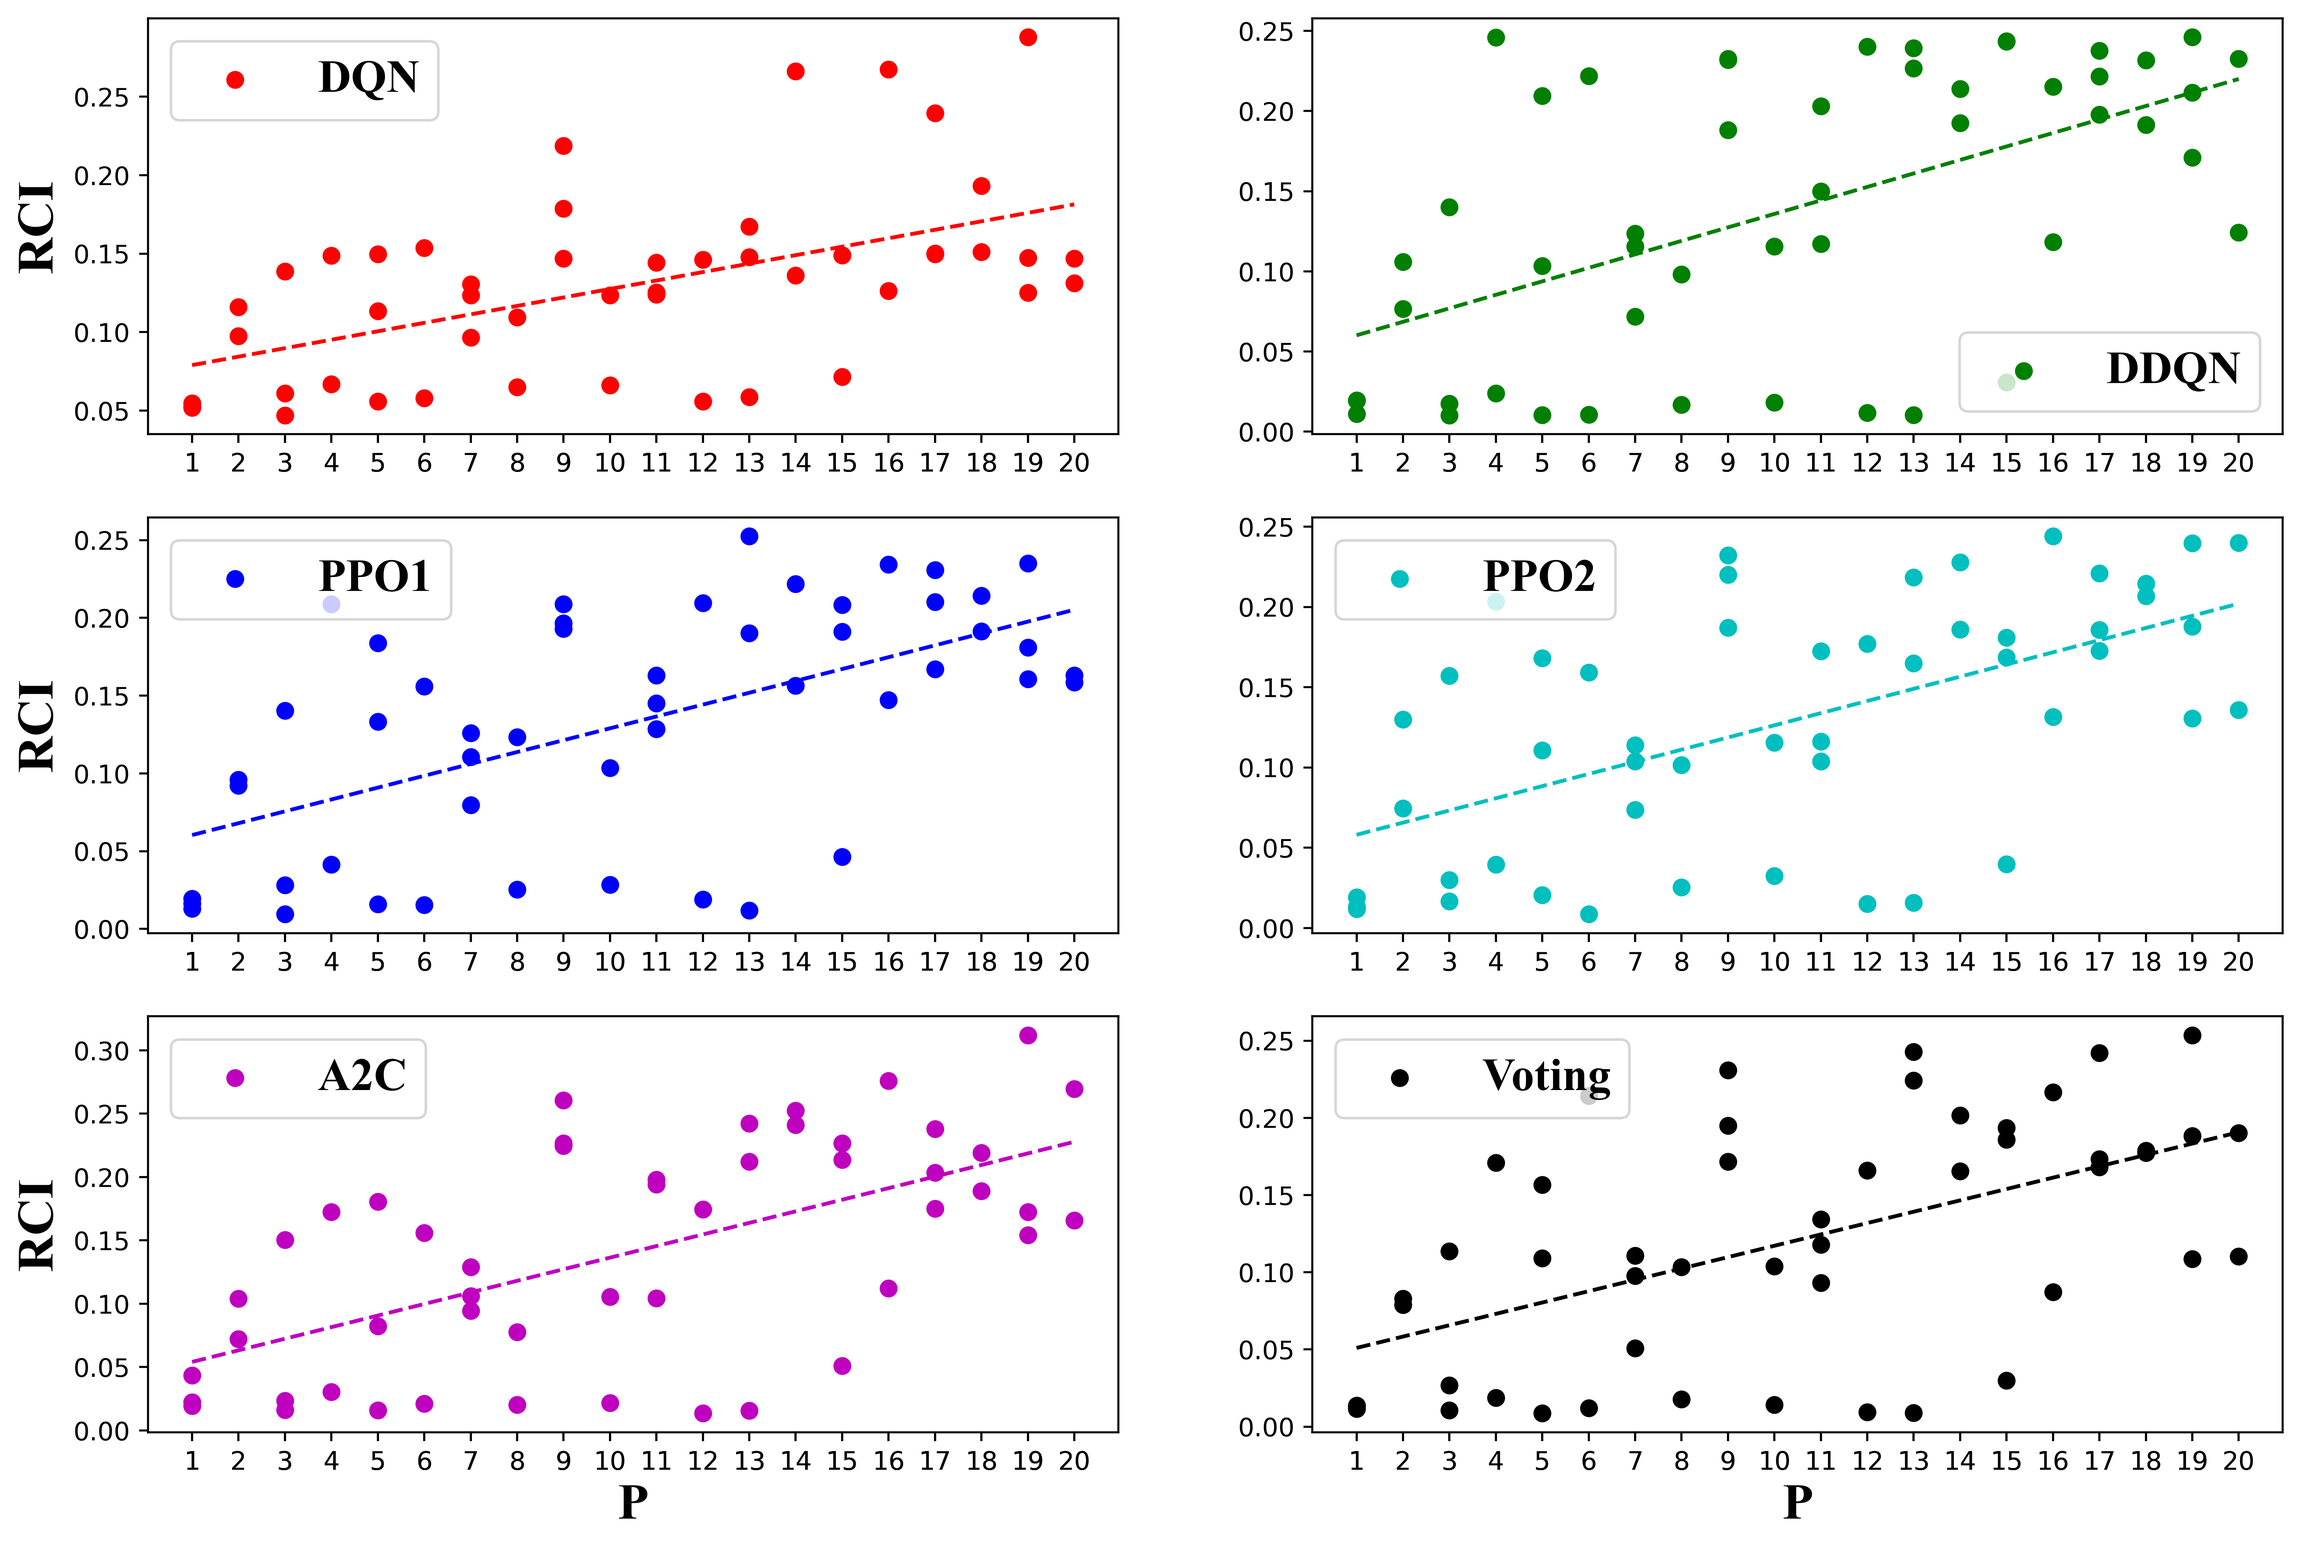
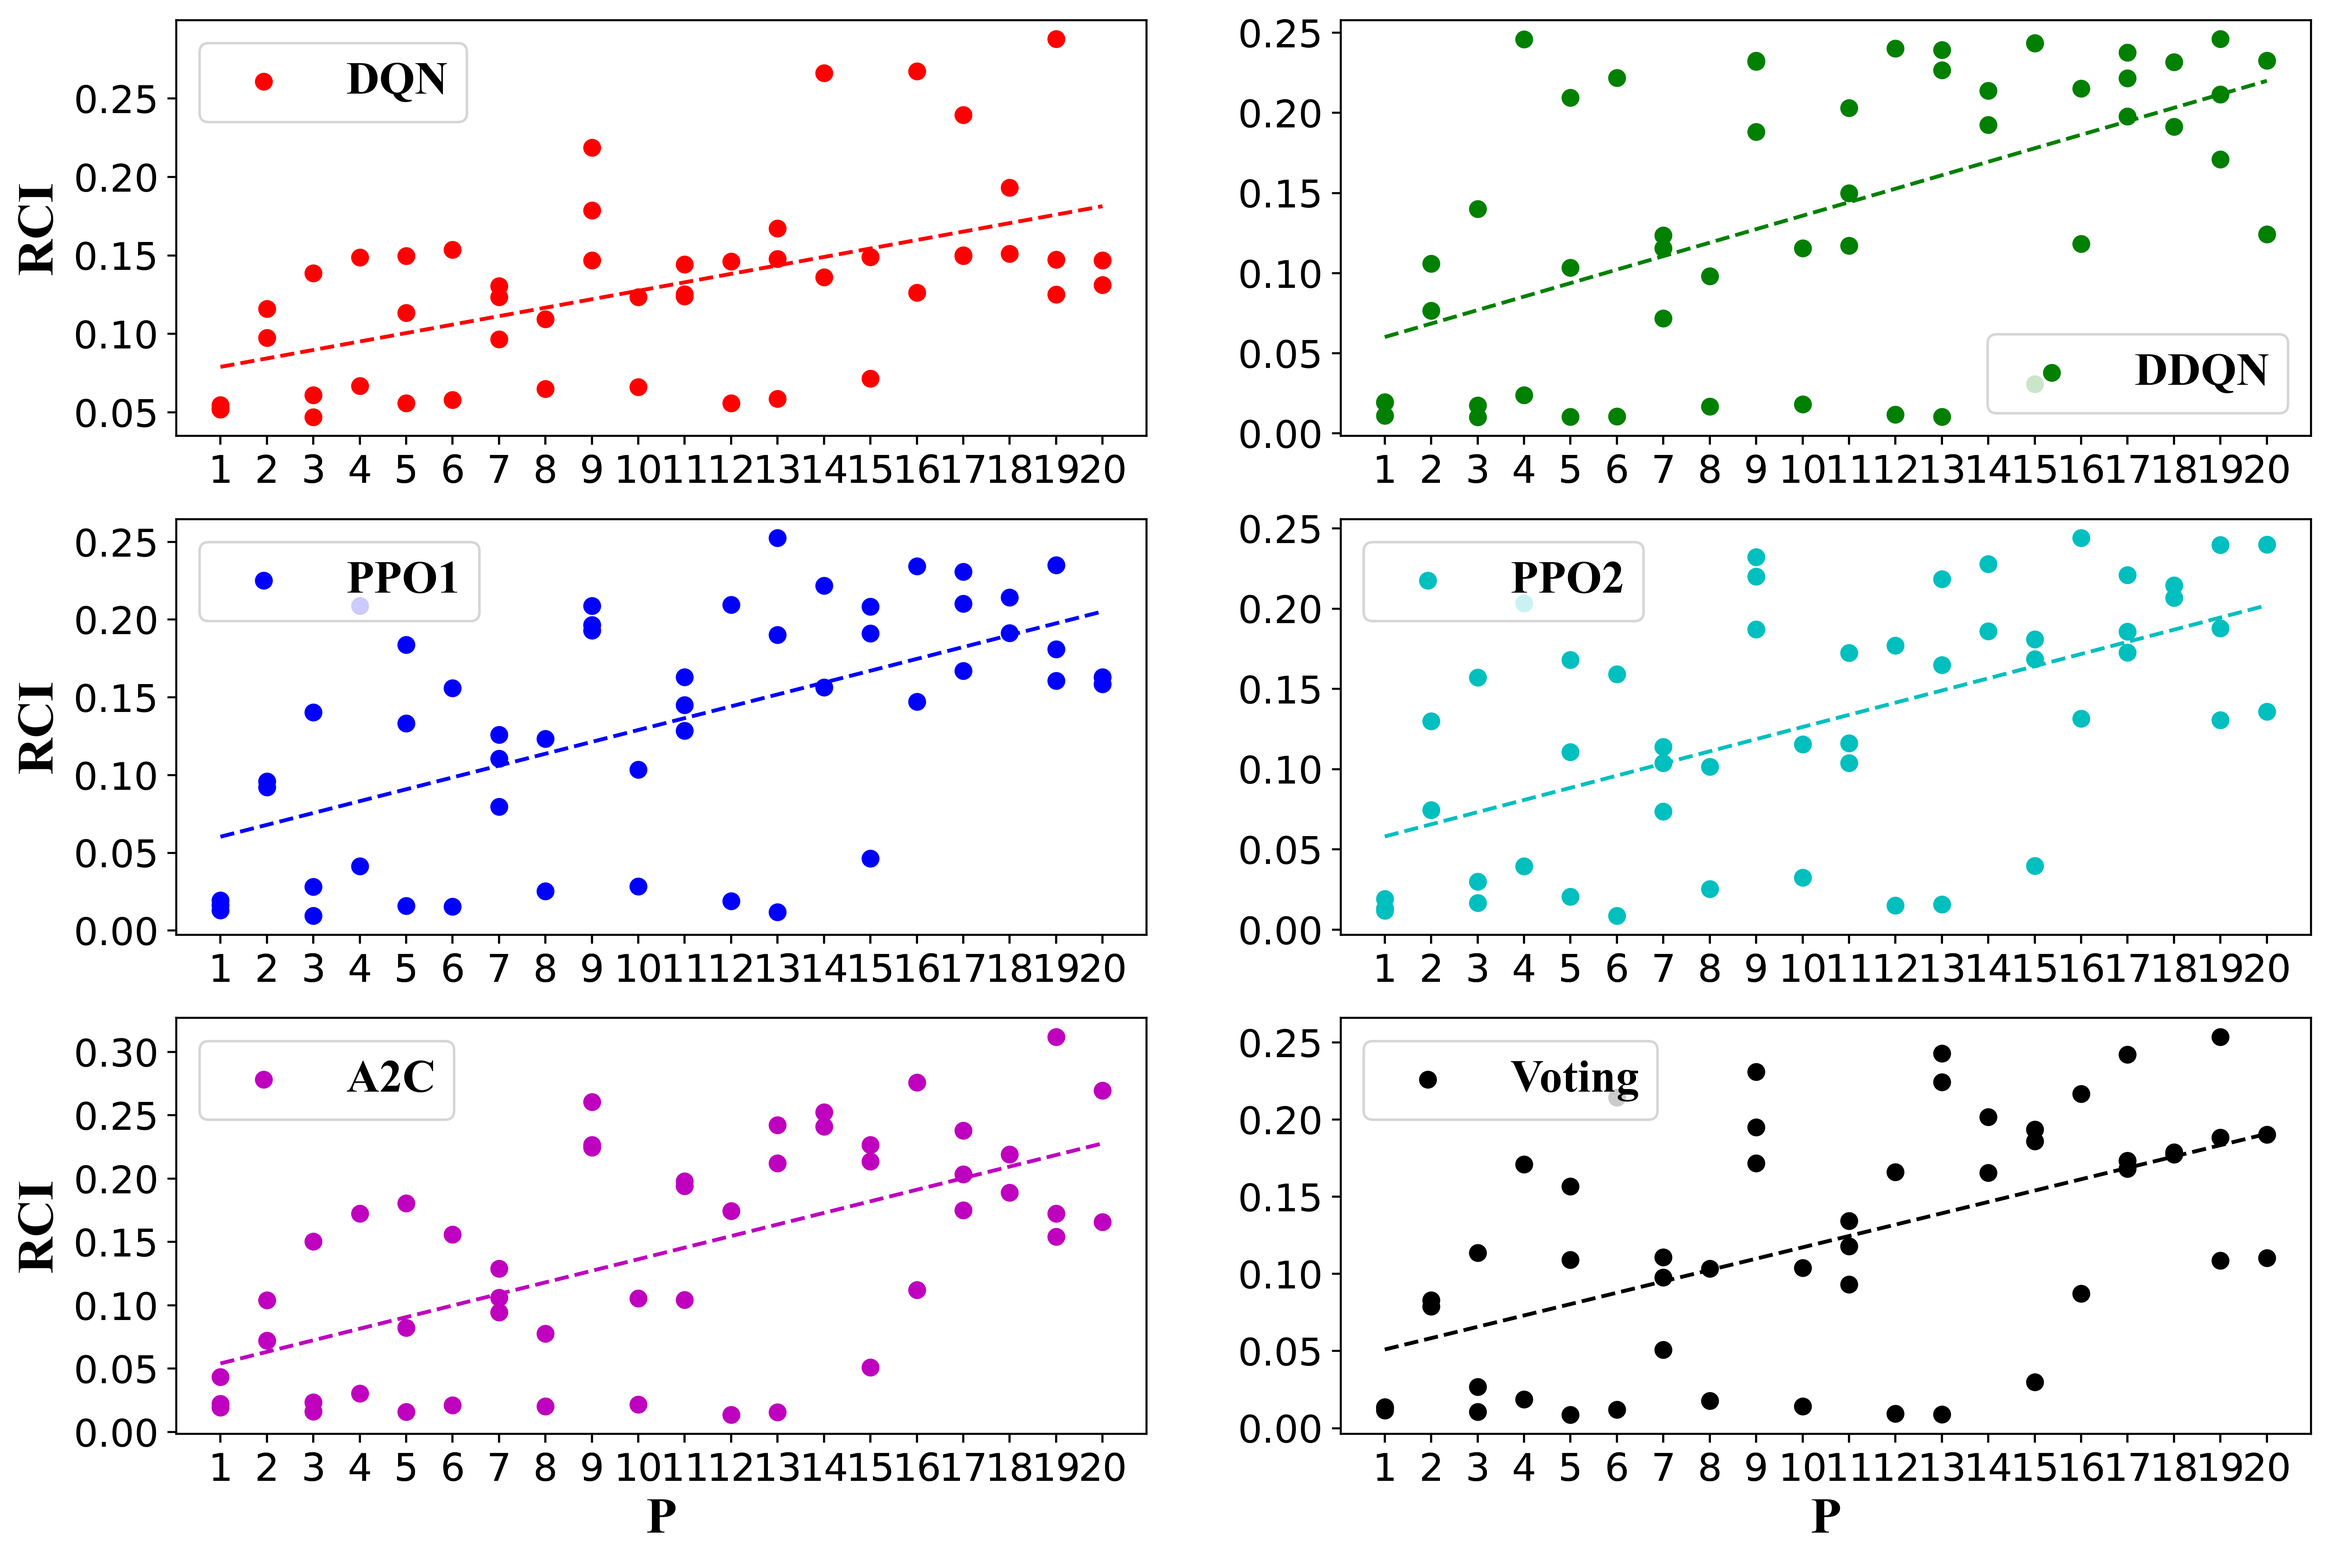
Remake figures

diff --git a/Multi-RL & Voting/4.3-2/results_fig.py b/Multi-RL & Voting/4.3-2/results_fig.py
@@ -10,7 +10,7 @@ def collect_data(filename):
         data[i]=[]
         
     for testid in ['test']:
-        for rid in range(10):
+        for rid in range(20):
             tem=pd.read_csv('./4.1/'+filename+'_test_result/'+testid+' '+str(rid)+' '+filename+'flooding_vs_t.csv').values
             for i in range(4):
                 if testid=='test':
@@ -48,16 +48,16 @@ font3 = {'family' : 'Times New Roman',
 
 def draw(data,dfop,dfhc):
     a=np.max(data,axis=0)
-    b=np.min(data,axis=0)    
-    def func(x):
-        return a[x]#+np.random.rand(1)[0]+np.random.rand(1)[0]
-    #定义另一个函数
-    def func1(x):
-        return b[x]#+np.random.rand(1)[0]
+    b=np.min(data,axis=0)
+    for i in range(1,a.shape[0]-1):
+        if a[i]<a[i-1]:
+            a[i]=a[i-1]
+        if b[i]<b[i-1]:
+            b[i]=b[i-1]
     
     xf = [i for i in range(a.shape[0])]
 
-    plt.fill_between(xf,func1(xf),func(xf),color='b',alpha=0.75)
+    plt.fill_between(xf,b[xf],a[xf],color='b',alpha=0.75)
     plt.plot(dfop,'k',label='Optimization model',alpha=0.5)
     plt.plot(dfhc,'k:',label='Water level system',alpha=0.5)
     #plt.legend(prop=font1)

diff --git a/Multi-RL & Voting/4.3/4.1/Uncertainty_results.py b/Multi-RL & Voting/4.3/4.1/Uncertainty_results.py
@@ -77,8 +77,8 @@ for name in file_name:
         plt.ylabel('RCI',fontdict=font1)
     
     # 增加刻度
-    plt.xticks(x, [int(xt) for xt in x])
-    
+    plt.xticks(x, [int(xt) for xt in x],fontsize=15)
+    plt.yticks(fontsize=15)
     # 设置图例
     n=labels[it]
     print(n)
